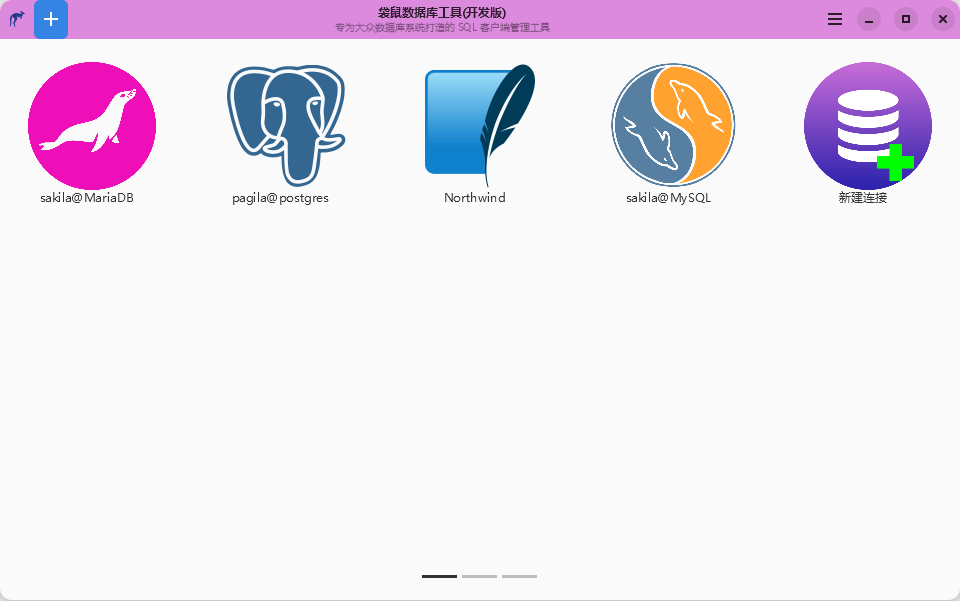
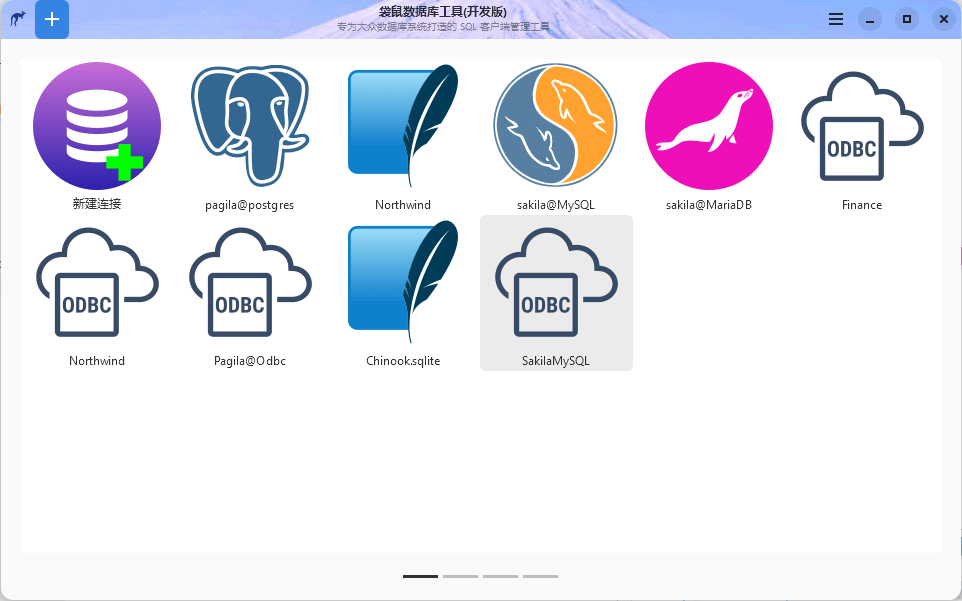
Update screenshots

Changed region(s): [[0.0, 0.0, 1.0, 0.629], [0.375, 0.599, 0.4688, 0.629], [0.0625, 0.599, 0.125, 0.629]]

diff --git a/README.md b/README.md
@@ -53,8 +53,9 @@ Database support capability level: __Planned__ / __Partial__ / __Full(:100:)__
 
 
 ## Screenshots
-![Start page of connection](./en/images/kangaroo-start.png)
-![Tools page of connection](./en/images/kangaroo-explorer.png)
+![Start page](./en/images/kangaroo-start.png)
+![Object explorer](./en/images/kangaroo-explorer.png)
+![Object search](./en/images/kangaroo-search.png)
 ![Kangaroo grid view in table with custom columns](./en/images/kangaroo-grid.png)
 
 <div>

diff --git a/en/README.md b/en/README.md
@@ -54,8 +54,9 @@ Database support capability level: __Planned__ / __Partial__ / __Full(:100:)__
 
 
 ## Screenshots
-![Start page of connection](./images/kangaroo-start.png)
-![Tools page of connection](./images/kangaroo-explorer.png)
+![Start page](./images/kangaroo-start.png)
+![Object explorer](./images/kangaroo-explorer.png)
+![Object search](./images/kangaroo-search.png)
 ![Kangaroo grid view in table with custom columns](./images/kangaroo-grid.png)
 
 <div>

diff --git a/zh/README.md b/zh/README.md
@@ -52,8 +52,9 @@ actionLink: /zh/download/v1.99.1.221001
 
 
 ## 工具界面快照
-![链接首页](./images/kangaroo-start.png)
-![链接登录后页面](./images/kangaroo-explorer.png)
+![袋鼠首页](./images/kangaroo-start.png)
+![对象浏览视图](./images/kangaroo-explorer.png)
+![对象搜索视图](./images/kangaroo-search.png)
 ![数据网格（自定义列）](./images/kangaroo-grid.png)
 
 <div>
